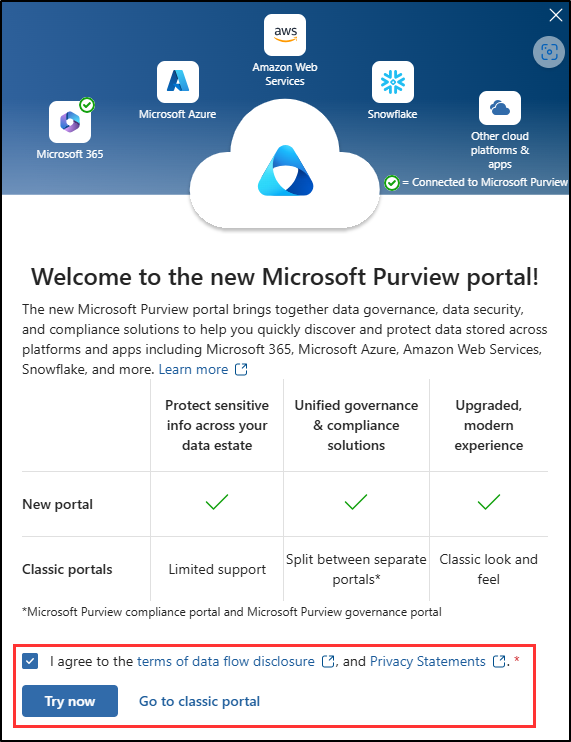
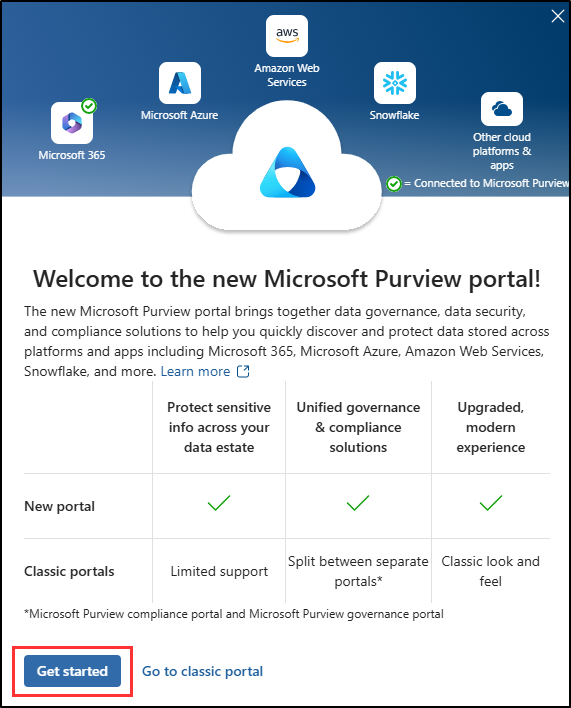
update labs for sc401

diff --git a/Instructions/Labs/LAB_AK_00_Lab0_Ex0_Lab_Setup.md b/Instructions/Labs/LAB_AK_00_Lab0_Ex0_Lab_Setup.md
@@ -18,18 +18,16 @@ In this lab, you'll configure and prepare your environment for administration ta
 
 **Tasks:**
 
-- Set user passwords for lab exercises
-- Enable Audit in the Microsoft Purview portal
-- Enable Search by Name in Microsoft Teams
-- Enable information barriers in SharePoint Online and OneDrive
+1. Set user passwords for lab exercises
+1. Enable Audit in the Microsoft Purview portal
 
-## Task - Set user passwords for lab exercises
+## Task 1 - Set user passwords for lab exercises
 
 In this task, you'll set passwords for the user accounts needed for the labs.
 
 1. Log into Client 1 VM (SC-400-CL1) as the **SC-400-CL1\admin** account. The password should be provided by your lab hosting provider.
 
-1. Open **Microsoft Edge** and navigate to **`https://admin.microsoft.com`** and log into the Microsoft 365 admin center as the MOD Administrator, `admin@WWLxZZZZZZ.onmicrosoft.com` (where ZZZZZZ is your unique tenant ID provided by your lab hosting provider).
+1. Open **Microsoft Edge** and navigate to **`https://admin.microsoft.com`** to log into the Microsoft 365 admin center as the MOD Administrator, `admin@WWLxZZZZZZ.onmicrosoft.com` (where ZZZZZZ is your unique tenant ID provided by your lab hosting provider).
 
 1. On the left navigation pane, expand **Users** then select **Active users**.
 
@@ -39,7 +37,7 @@ In this task, you'll set passwords for the user accounts needed for the labs.
 
    ![Screenshot showing user accounts that need to be reset.](../Media/user-accounts.png)
 
-1. Select the **Reset password** button from the top, navigation ribbon to reset all three passwords.
+1. Select the **Reset password** button from the top navigation to reset all three passwords.
 
    ![Screenshot showing the Reset password button in the Microsoft 365 admin center.](../Media/reset-password-button.png)
 
@@ -55,11 +53,65 @@ In this task, you'll set passwords for the user accounts needed for the labs.
 
 You have successfully reset passwords for lab exercises.
 
-## Task - Enable Audit in the Microsoft Purview portal
+## Task 2 - Enable Audit in the Microsoft Purview portal
 
 In this task, you'll enable Audit in the Microsoft Purview portal to monitor portal activities.
 
 1. You should still be logged into Client 1 VM (SC-400-CL1) as the **SC-400-CL1\admin** account and logged into Microsoft 365 with the MOD Administrator account.
+
+1. Open an elevated Terminal window by selecting the Windows button with the right mouse button and then select **Terminal (Admin)**.
+
+1. Run the Install Module cmdlet in the terminal window to install the latest **Exchange Online PowerShell** module version:
+
+    ```powershell
+    Install-Module ExchangeOnlineManagement
+    ```
+
+1. Confirm the NuGet provider security dialog with **Y** for Yes and press **Enter**. This process might take some time to complete.
+
+1. Confirm the Untrusted repository security dialog with **Y** for Yes and press **Enter**.  This process may take some time to complete.
+
+1. Run the **Set-ExecutionPolicy** cmdlet to change your execution policy and press **Enter**
+
+    ```powershell
+    Set-ExecutionPolicy -ExecutionPolicy RemoteSigned -Scope CurrentUser
+    ```
+
+1. Close the PowerShell window.
+
+1. Open a regular PowerShell window, without elevation, right clicking the Windows button in the task bar, then select **Terminal**.
+
+1. Run the **Connect-ExchangeOnline** cmdlet to use the Exchange Online PowerShell module and connect to your tenant:
+
+    ```powershell
+    Connect-ExchangeOnline
+    ```
+
+1. When the **Sign in** window is displayed, sign in as `admin@WWLxZZZZZZ.onmicrosoft.com` (where ZZZZZZ is your unique tenant ID provided by your lab hosting provider).
+
+1. To check if Audit is enabled, run the **Get-AdminAuditLogConfig** cmdlet:
+
+    ```powershell
+    Get-AdminAuditLogConfig | FL UnifiedAuditLogIngestionEnabled
+    ```
+
+1. If _UnifiedAuditLogIngestionEnabled_ returns false, then Audit is disabled.
+
+1. To enable the Audit log, run the **Set-AdminAuditLogConfig** cmdlet and set the **UnifiedAuditLogIngestionEnabled** to _true_:
+
+    ```powershell
+    Set-AdminAuditLogConfig -UnifiedAuditLogIngestionEnabled $true
+    ```
+
+1. To verify that Audit is enabled, run the **Get-AdminAuditLogConfig** cmdlet again:
+
+    ```powershell
+    Get-AdminAuditLogConfig | FL UnifiedAuditLogIngestionEnabled
+    ```
+
+1. _UnifiedAuditLogIngestionEnabled_ should return _true_ to let you know Audit is enabled.
+
+<!---
 
 1. In Microsoft Edge, navigate to the Microsoft Purview portal, `https://purview.microsoft.com`, and log in.
 
@@ -75,77 +127,4 @@ In this task, you'll enable Audit in the Microsoft Purview portal to monitor por
 
 1. Once you select this option, the blue bar should disappear from this page.
 
->[!alert] If you receive an error enabling Audit in this exercise, please use these steps as a work around:
->1. Open an elevated Terminal window by selecting the Windows button with the right mouse button and then select Terminal (Admin).
->1. Install the ExchangeOnlineManagement module by running `Install-Module -Name ExchangeOnlineManagement`
->1. Connect to ExchangeOnlineManagement by running `Connect-ExchangeOnline`
->1. When prompted, login by entering the administrator username and password from your lab hosting provider.
->1. To verify if Audit is enabled, run `Get-AdminAuditLogConfig | FL UnifiedAuditLogIngestionEnabled`
->1. If false, then the audit log is turned off.
->1. To enable Audit, run `Set-AdminAuditLogConfig -UnifiedAuditLogIngestionEnabled $true`
->   1. If you receive an error that you are unable to run the script in your organization, run `Enable-OrganizationCustomization`
->   1. Try again to run `Set-AdminAuditLogConfig -UnifiedAuditLogIngestionEnabled $true`
->1. To confirm Audit is enabled, run `Get-AdminAuditLogConfig | FL UnifiedAuditLogIngestionEnabled`
->1. Once complete, run `Disconnect-ExchangeOnline` to end your session
-
-You have successfully enabled auditing in Microsoft 365.
-
-## Task - Enable search by name in Microsoft Teams
-
-In this task, you'll enable the **Search by name** feature in Microsoft Teams for easy user location. This is needed for configuring information barriers in a later exercise.
-
-1. You should still be logged into Client 1 VM (SC-400-CL1) as the **SC-400-CL1\admin** account and logged into Microsoft 365 with the MOD Administrator account.
-
-1. In **Microsoft Edge**, navigate to **`https://admin.teams.microsoft.com`**.
-
-1. In the left navigation pane, under the **Teams** dropdown, select **Teams settings**.
-
-    ![Screenshot showing the Teams settings button in the Teams admin portal.](../Media/teams-settings.png)
-
-1. Scroll down to **Search by name** section and toggle the **Scope directory search using an Exchange address book policy** to **On**.
-
-1. Select **Save** at the bottom of the page.
-
-1. On the **Changes might take some time to take effect** dialogue, select **Confirm**.
-
-You have successfully enabled the search by name feature in Microsoft Teams for information barriers.
-
-## Task - Enable information barriers in SharePoint Online and OneDrive
-
-In this task, you'll enable information barriers in SharePoint Online and OneDrive to ensure secure collaboration.
-
-1. You should still be logged into Client 1 VM (SC-400-CL1) as the **SC-400-CL1\admin** account.
-
-1. Open an elevated PowerShell window by selecting the Windows button with the right mouse button and then select **Windows PowerShell (Admin)**.
-
-1. Confirm the **User Account Control** window with **Yes**.
-
-1. Run the following cmdlet to install the latest version of the SharePoint Online PowerShell module:
-
-    ```powershell
-    Install-Module -Name Microsoft.Online.SharePoint.PowerShell
-    ```
-
-1. If prompted to install the PowerShell NuGet provider, enter **Y** to install the provider.
-
-1. If prompted to install from an untrusted repository, enter **Y** to install the module from the PSGallery.
-
-1. Run the following cmdlet to connect to the admin center for SharePoint Online:
-
-    ```powershell
-     Connect-SPOService -Url https://WWLxZZZZZZ-admin.sharepoint.com
-    ```
-
-    >**Note:** Be sure to update ZZZZZZ. ZZZZZZ is your unique tenant ID provided by your lab hosting provider.
-
-1. Login with the MOD Administrator password provided by your lab hosting provider.
-
-1. To enable information barriers in SharePoint and OneDrive, run the following command:
-
-    ```powershell
-    Set-SPOTenant -InformationBarriersSuspension $false
-    ```
-
-1. Close the PowerShell window once this is complete.
-
-You have successfully enabled information barriers in SharePoint Online and OneDrive.
+-->

diff --git a/Instructions/Labs/LAB_AK_01_Lab1_Ex2_Sensitive_Information_Types.md b/Instructions/Labs/LAB_AK_01_Lab1_Ex2_Sensitive_Information_Types.md
@@ -44,9 +44,9 @@ In this task, you'll create a new custom sensitive information type that recogni
 
 1. On the **+ Add a regular expression** flyout panel on the right, enter:
 
-    - **ID**: `Contoso IDs`
-    - **Regular expression**: `[A-Z]{3}[0-9]{6}`
-    - Select the radio button for *String match*
+   - **ID**: `Contoso IDs`
+   - **Regular expression**: `[A-Z]{3}[0-9]{6}`
+   - Select the radio button for _String match_
 
 1. Select **Done** at the bottom of the flyout panel.
 
@@ -54,15 +54,15 @@ In this task, you'll create a new custom sensitive information type that recogni
 
 1. On the **Add a keyword list** flyout panel on the right, enter:
 
-    - **ID**: `Employee ID keywords`
-    - **Case insensitive**:
+   - **ID**: `Employee ID keywords`
+   - **Case insensitive**:
 
-       ```text
-       Employee
-       ID
-       ```
+      ```text
+      Employee
+      ID
+      ```
 
-    - Select the radio button for *Word match*
+   - Select the radio button for _Word match_
 
 1. Select **Done** at the bottom of the flyout panel.
 
@@ -78,19 +78,17 @@ In this task, you'll create a new custom sensitive information type that recogni
 
 1. Sign out of Joni's account by selecting the profile picture of Joni Sherman in the top right. Select **Sign out**, then close the browser window.
 
-1. Close the browser window then open a new browser window.
-
 You have successfully created a new sensitive information type to identify employee IDs in the pattern of three uppercase characters, six numbers, and the keywords 'Employee' or 'IDs' within a range of 100 characters.
 
-## Task 2 – Create EDM-based classification information type
+## Task 2 – Create a security group and assign roles to create an EDM classifier
 
-In this task, you'll create an Exact Data Match (EDM) based classification with a database schema of employee data.
+In this task, you'll create the role group to create an EDM classifier and add Joni to the new role group.
 
 1. You should still be logged into Client 1 VM (SC-400-CL1) as the **SC-400-CL1\admin** account.
 
 1. Open **Microsoft Edge** then navigate to **`https://admin.microsoft.com`**.
 
-1. When the **Pick an account** page is displayed, select **Use another account** and sign in as **MOD Administrator** `admin@WWLxZZZZZZ.onmicrosoft.com` (where ZZZZZZ is your unique tenant ID provided by your lab hosting provider).  Admin's password should be provided by your lab hosting provider.
+1. When the **Pick an account** page is displayed, select **Use another account** and sign in as **MOD Administrator** `admin@WWLxZZZZZZ.onmicrosoft.com` (where ZZZZZZ is your unique tenant ID provided by your lab hosting provider). Admin's password should be provided by your lab hosting provider.
 
 1. From the left pane, expand **Teams & groups** then select **Active teams & groups**.
 
@@ -98,7 +96,7 @@ In this task, you'll create an Exact Data Match (EDM) based classification with 
 
     ![Screenshot of the Add a group button.](../Media/add-security-group.png)
 
-1. On the **Set up the basics** screen, enter the following:
+1. On the **Set up the basics** screen, enter:
 
     - **Name**: `EDM_DataUploaders`
     - **Description**: `People who upload data for EDM.`
@@ -121,11 +119,15 @@ In this task, you'll create an Exact Data Match (EDM) based classification with 
 
 1. Verify **Joni Sherman** is listed below **Members**, then close the flyout panel by selecting the **X** on the top right of the flyout panel.
 
-1. Sign out of the Mod Administrator account by selecting the MA icon on the top right of the window, then selecting **Sign out**.
+1. Sign out of the Mod Administrator account by selecting the MA icon on the top right of the window, then selecting **Sign out** and closing the browser window.
 
-1. Close the browser window and open a new one.
+You have successfully created the **EDM_DataUploaders group** and assigned Joni access to create an EDM classifier.
 
-1. Navigate to the Microsoft Purview portal at `https://purview.microsoft.com`.
+## Task 3 –  Create EDM-based classification information type
+
+In this task, you'll create an Exact Data Match (EDM) based classification with a database schema of employee data.
+
+1. Open **Microsoft Edge** then navigate to the Microsoft Purview portal at `https://purview.microsoft.com`.
 
 1. When the **Pick an account** page is displayed, select **Joni Sherman** and sign in.
 
@@ -159,7 +161,7 @@ In this task, you'll create an Exact Data Match (EDM) based classification with 
 
 1. Select **Next**.
 
-1. On the **Select primary elements** page, for the **EmployeeID** column, expand the **Match mode** dropdown here **Single-token** is displayed, and select the **+** (plus sign) for **Choose a SIT**.
+1. On the **Select primary elements** page, find the **EmployeeID** column. Expand the **Match mode** dropdown where **Single-token** is displayed. Select the **+** (plus sign) for **Choose a SIT**.
 
       ![Screenshot showing the click path to add a SIT for a primary element in an EDM classifier.](../Media/match-mode-sensitive-info-type.png)
 
@@ -177,13 +179,21 @@ In this task, you'll create an Exact Data Match (EDM) based classification with 
 
 1. Select the checkbox for **Ignore delimiters and punctuation for data in all columns**.
 
-1. Select the dropdown for **Choose delimiters and punctuation to ignore** dropdown and select *Hyphen*, *Period*, *Space*, *Open parenthesis* and *Close parenthesis*, then select **Next**.
+1. Select the dropdown for **Choose delimiters and punctuation to ignore** dropdown and select:
+
+   - _Hyphen ('-')_
+   - _Period ('.')_
+   - _Space (' ')_
+   - _Open parenthesis ('(')_
+   - _Close parenthesis (')')_
+
+1. Click anywhere outside of the dropdown, then select **Next**.
 
 1. On the **Configure detection rules for primary elements**, leave the default configuration, then select **Next**.
 
 1. On the **Review settings and finish** page, select **Submit**.
 
-1. On the **You successfully created an EDM classifier** page, be sure to copy and paste the **Schema name** to use in the next task.
+1. On the **You successfully created an EDM classifier** page, be sure to capture the **Schema name** to use in the next task.
 
       ![Screenshot showing the schema name after creating an EDM classifier.](../Media/edm-copy-schema-name.png)
 
@@ -277,13 +287,13 @@ In this task, you'll hash and upload the actual data for the EDM-based classific
 
     Alternatively, you can also refresh the **EDM classifiers** window in the Microsoft Purview portal to check the status of the hash. Once the status is set to **Index complete** the hash is complete.
 
-    > **Note**: This process time, and you might have to run the GetSession script or refresh the EDM classifiers page a few times before the status shows the hash is complete.
+    > **Note**: This process might take some time. You might need to run the GetSession script or refresh the EDM classifiers page several times before the status indicates that the hash is complete.
 
     ![Screenshot showing the EDM hash status set to Completed in PowerShell.](../Media/edm-hash-completed.png)
 
     ![Screenshot showing the EDM hash status set to Index complete in Microsoft Purview portal.](../Media/edm-hash-completed-ui.png)
 
-1. Close the PowerShell window.
+1. Close the terminal window.
 
 You have successfully hashed and uploaded a database file for an EDM-based classification sensitive information type.
 

diff --git a/Instructions/Labs/LAB_AK_01_Lab1_Ex1_compliance_roles.md b/Instructions/Labs/LAB_AK_01_Lab1_Ex1_compliance_roles.md
@@ -60,6 +60,10 @@ In this task, you'll sign in as Joni Sherman to explore the Microsoft Purview po
 
 1. When the **Sign in** window is displayed, sign in as `JoniS@WWLxZZZZZZ.onmicrosoft.com` (where ZZZZZZ is your unique tenant ID provided by your lab hosting provider). Joni's password was set in a previous exercise.
 
+1. A message about the new Microsoft Purview portal will appear on the screen. Select **Get started** to access the new portal.
+
+    ![Screenshot showing the Welcome to the new Microsoft Purview portal screen.](../Media/welcome-purview-portal.png)
+
 1. Get yourself familiar with the new Microsoft Purview Portal. When you are done, leave the browser window open.
 
 You have successfully switched to Joni Sherman's account and are now ready to start the lab.
